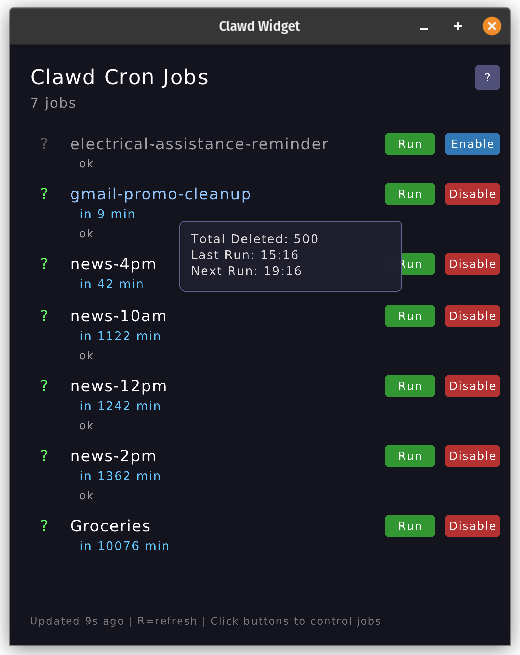
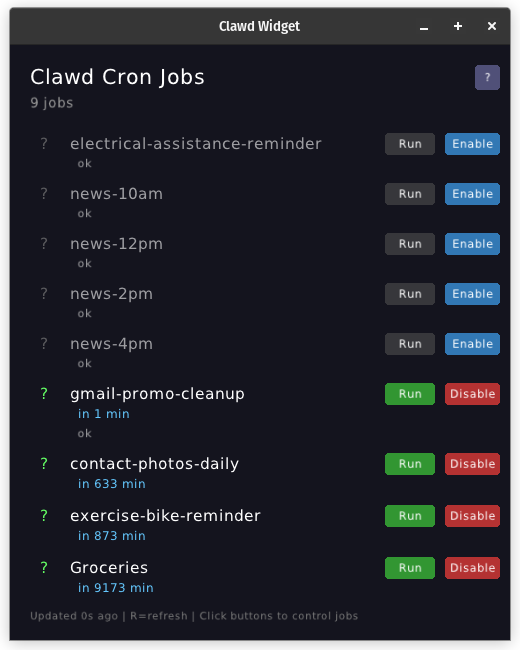
Add Tech Details for Nerds section with API documentation
Includes sample curl commands and JSON responses for listing jobs,
toggling job state, and running jobs immediately. Also documents
the debug mode output format.

diff --git a/README.md b/README.md
@@ -133,6 +133,65 @@ clawd-widget
 
 No polling the filesystem. No heavy frameworks. Just direct API calls.
 
+### 🤓 Tech Details for Nerds
+
+The widget communicates with the Clawdbot gateway via a simple REST API. All calls go to `POST /tools/invoke` with JSON payloads.
+
+**List Jobs:**
+```bash
+curl -X POST http://localhost:18789/tools/invoke \
+  -H "Authorization: Bearer YOUR_TOKEN" \
+  -H "Content-Type: application/json" \
+  -d '{"tool": "cron", "action": "list", "args": {"includeDisabled": true}}'
+```
+
+Response:
+```json
+{
+  "ok": true,
+  "result": {
+    "details": {
+      "jobs": [
+        {
+          "id": "backup-daily",
+          "name": "Daily Backup",
+          "enabled": true,
+          "state": {
+            "nextRunAtMs": 1738310400000,
+            "lastRunAtMs": 1738224000000,
+            "lastStatus": "success: backed up 42 files"
+          }
+        }
+      ]
+    }
+  }
+}
+```
+
+**Toggle Job Enabled State:**
+```bash
+curl -X POST http://localhost:18789/tools/invoke \
+  -H "Authorization: Bearer YOUR_TOKEN" \
+  -H "Content-Type: application/json" \
+  -d '{"tool": "cron", "action": "update", "args": {"jobId": "backup-daily", "patch": {"enabled": false}}}'
+```
+
+**Run Job Immediately:**
+
+The widget shells out to the CLI for force-run capability:
+```bash
+clawdbot cron run backup-daily --force --timeout 60000
+```
+
+**Debug Mode:**
+
+Use `-d` flag to see all API calls printed to stderr:
+```
+[DEBUG] POST http://localhost:18789/tools/invoke
+[DEBUG] Body: {"tool": "cron", "action": "list", "args": {"includeDisabled": true}}
+[DEBUG] Response status: http.Status.ok
+```
+
 ## 🎨 Customization
 
 **Background Images** (planned):
